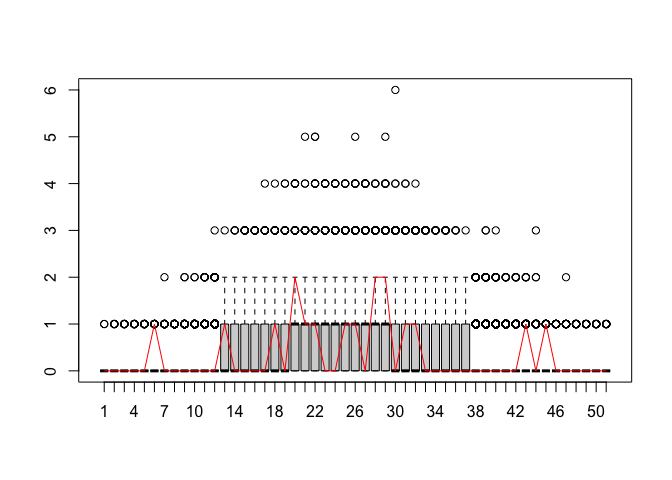
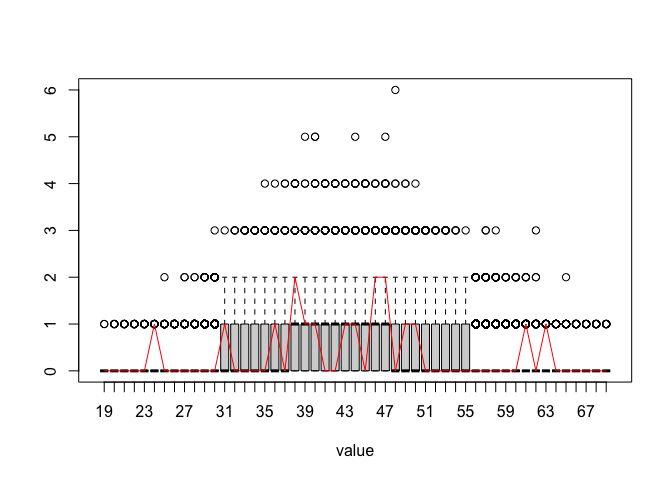
Adding notes on where and how LLMs assisted coding

Changed region(s): [[0.125, 0.8438, 0.9062, 0.875], [0.5, 0.9062, 0.5625, 0.9688]]

diff --git a/README.md b/README.md
@@ -61,6 +61,14 @@ bugs or errors; further, you might not be able to do what you want. In
 that case, or if you are unsure please write the package maintainer
 under his institutional email address.
 
+Finally: Programming Version 2 of MoNAn extensively used Claude Code,
+which produced the code for the majority of the C++ implementation of
+the MCMC. The C++ implementation is checked in all steps and effects
+that it exactly reproduces the human-coded R-based implementation.
+Additionally, Claude Code was used for optimization; similarly, output
+from the machine was checked against previous human-coded
+implementation.
+
 # Installation
 
 You can install MoNAn from CRAN:

diff --git a/ADDING_EFFECTS.md b/ADDING_EFFECTS.md
@@ -1,5 +1,9 @@
 # Adding an effect to MoNAn
 
+Note: This guide was written by Claude Code, which produced the code for the majority
+of the C++ implementation of the MCMC. The C++ implementation is checked in all
+steps and effects that it exactly reproduces the human-coded R-based implementation.
+
 This guide is for developers of MoNAn. It explains how to add a new effect so
 that it works with both samplers:
 
